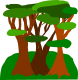
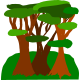
* hathi images improved

diff --git a/pkg/js/abbozza/worlds/Abbozza.js b/pkg/js/abbozza/worlds/Abbozza.js
@@ -71,15 +71,15 @@ Abbozza.initWorlds = function () {
     );
     Abbozza.worldView = document.createElement("DIV");
     Abbozza.worldView.className = "abzWorldView";    
-    Abbozza.worldSpeed = document.createElement("DIV");
-    Abbozza.worldSpeed.className = "abzWorldSpeed";
+    // Abbozza.worldSpeed = document.createElement("DIV");
+    // Abbozza.worldSpeed.className = "abzWorldSpeed";
     Abbozza.worldControl = document.createElement("DIV");
     Abbozza.worldControl.className = "abzWorldControl";
     Abbozza.worldFrame.content.appendChild(Abbozza.worldView);
-    Abbozza.worldFrame.content.appendChild(Abbozza.worldSpeed);
+    // Abbozza.worldFrame.content.appendChild(Abbozza.worldSpeed);
     Abbozza.worldFrame.content.appendChild(Abbozza.worldControl);
     // Desktop.header.appendChild(document.getElementById("speedslider"));
-    Abbozza.worldSpeed.appendChild(document.getElementById("speedslider"));
+    Abbozza.worldControl.appendChild(document.getElementById("speedslider"));
     
     var controls = document.getElementById("infoFrame").contentDocument.getElementById("controls");
     if ( controls ) {

diff --git a/pkg/css/worlds.css b/pkg/css/worlds.css
@@ -52,11 +52,6 @@
     height: 50px;
 }
 
-#speedslider * {
-    vertical-align: middle;
-    height: 49px;
-}
-
 .tabPane {
     overflow: none;
     background-color: white;    
@@ -305,7 +300,7 @@
     position: absolute;
     bottom: 0px;
     left:   0px;
-    width:  299px;
+    width:  500px;
     height: 48px;
     background-color: white;
     border-top: black 1px solid;
@@ -318,7 +313,7 @@
     align-items: center;
     position: absolute;
     bottom: 0px;
-    left:   301px;
+    left: 0px;
     right:  0px;
     height: 48px;
     background-color: white;
@@ -335,11 +330,11 @@
 }
 
 #speedslider {
-    position: absolute;
-    top: 0px;
-    left: 10px;
-    width: auto;
-    height: 48px;
+    display: flex;
+    align-items: center;
+    margin-left: 20px;
+    overflow: hidden;
+    flex-shrink:0;
 }
 
 .levelButton {
@@ -368,3 +363,11 @@
     text-decoration: none;
     color: black;
 }
+
+.inputNumber {
+    width: 3em;
+    margin-left: 5px;
+    text-align: center;
+}
+
+

diff --git a/pkg/worlds/hathi/World.html b/pkg/worlds/hathi/World.html
@@ -2,15 +2,15 @@
         <div id="controls">
             <div class="control">
                 <label for="width">Breite</label>
-                <input type="number" id="width" name="width" min="1" max="40"/>
+                <input class="numberInput" type="number" id="width" name="width" min="1" max="40"/>
             </div>
             <div class="control">
                 <label for="height">Höhe</label>
-                <input type="number" id="height" name="height" min="1" max="40"/>
+                <input class="numberInput" type="number" id="height" name="height" min="1" max="40"/>
             </div>
             <div class="control">
                 <label for="size">Größe eines Feldes</label>
-                <input type="number" id="size" name="size" min="20" max="80"/>
+                <input class="numberInput" type="number" id="size" name="size" min="20" max="80"/>
             </div>    
         </div>
         <div id="desktop">

diff --git a/pkg/worlds.html b/pkg/worlds.html
@@ -126,7 +126,7 @@
             <iframe id="infoFrame" src="World.html" style="width: 100%; height: 100%; border: none;"></iframe>
         </div>
 
-        <div id="speedslider">
+        <div id="speedslider" class="control">
             <span>Langsam</span>
             <input type="range" id="speed" name="speed" step="5" min="0" max="100" list="speedticks" oninput="AbbozzaInterpreter.setSpeed(this.value);"/>
             <span>Schnell</span>

diff --git a/pkg/worlds/hathi/World.js b/pkg/worlds/hathi/World.js
@@ -216,7 +216,7 @@ Hathi.ROCK = -1;
 Hathi.HOLE = -2;
 Hathi.TREE = -3;
 Hathi.OASIS = -4;
-Hathi.REANUT = 1;
+Hathi.PEANUT = 1;
 
 
 Hathi.prototype.reset = function () {
